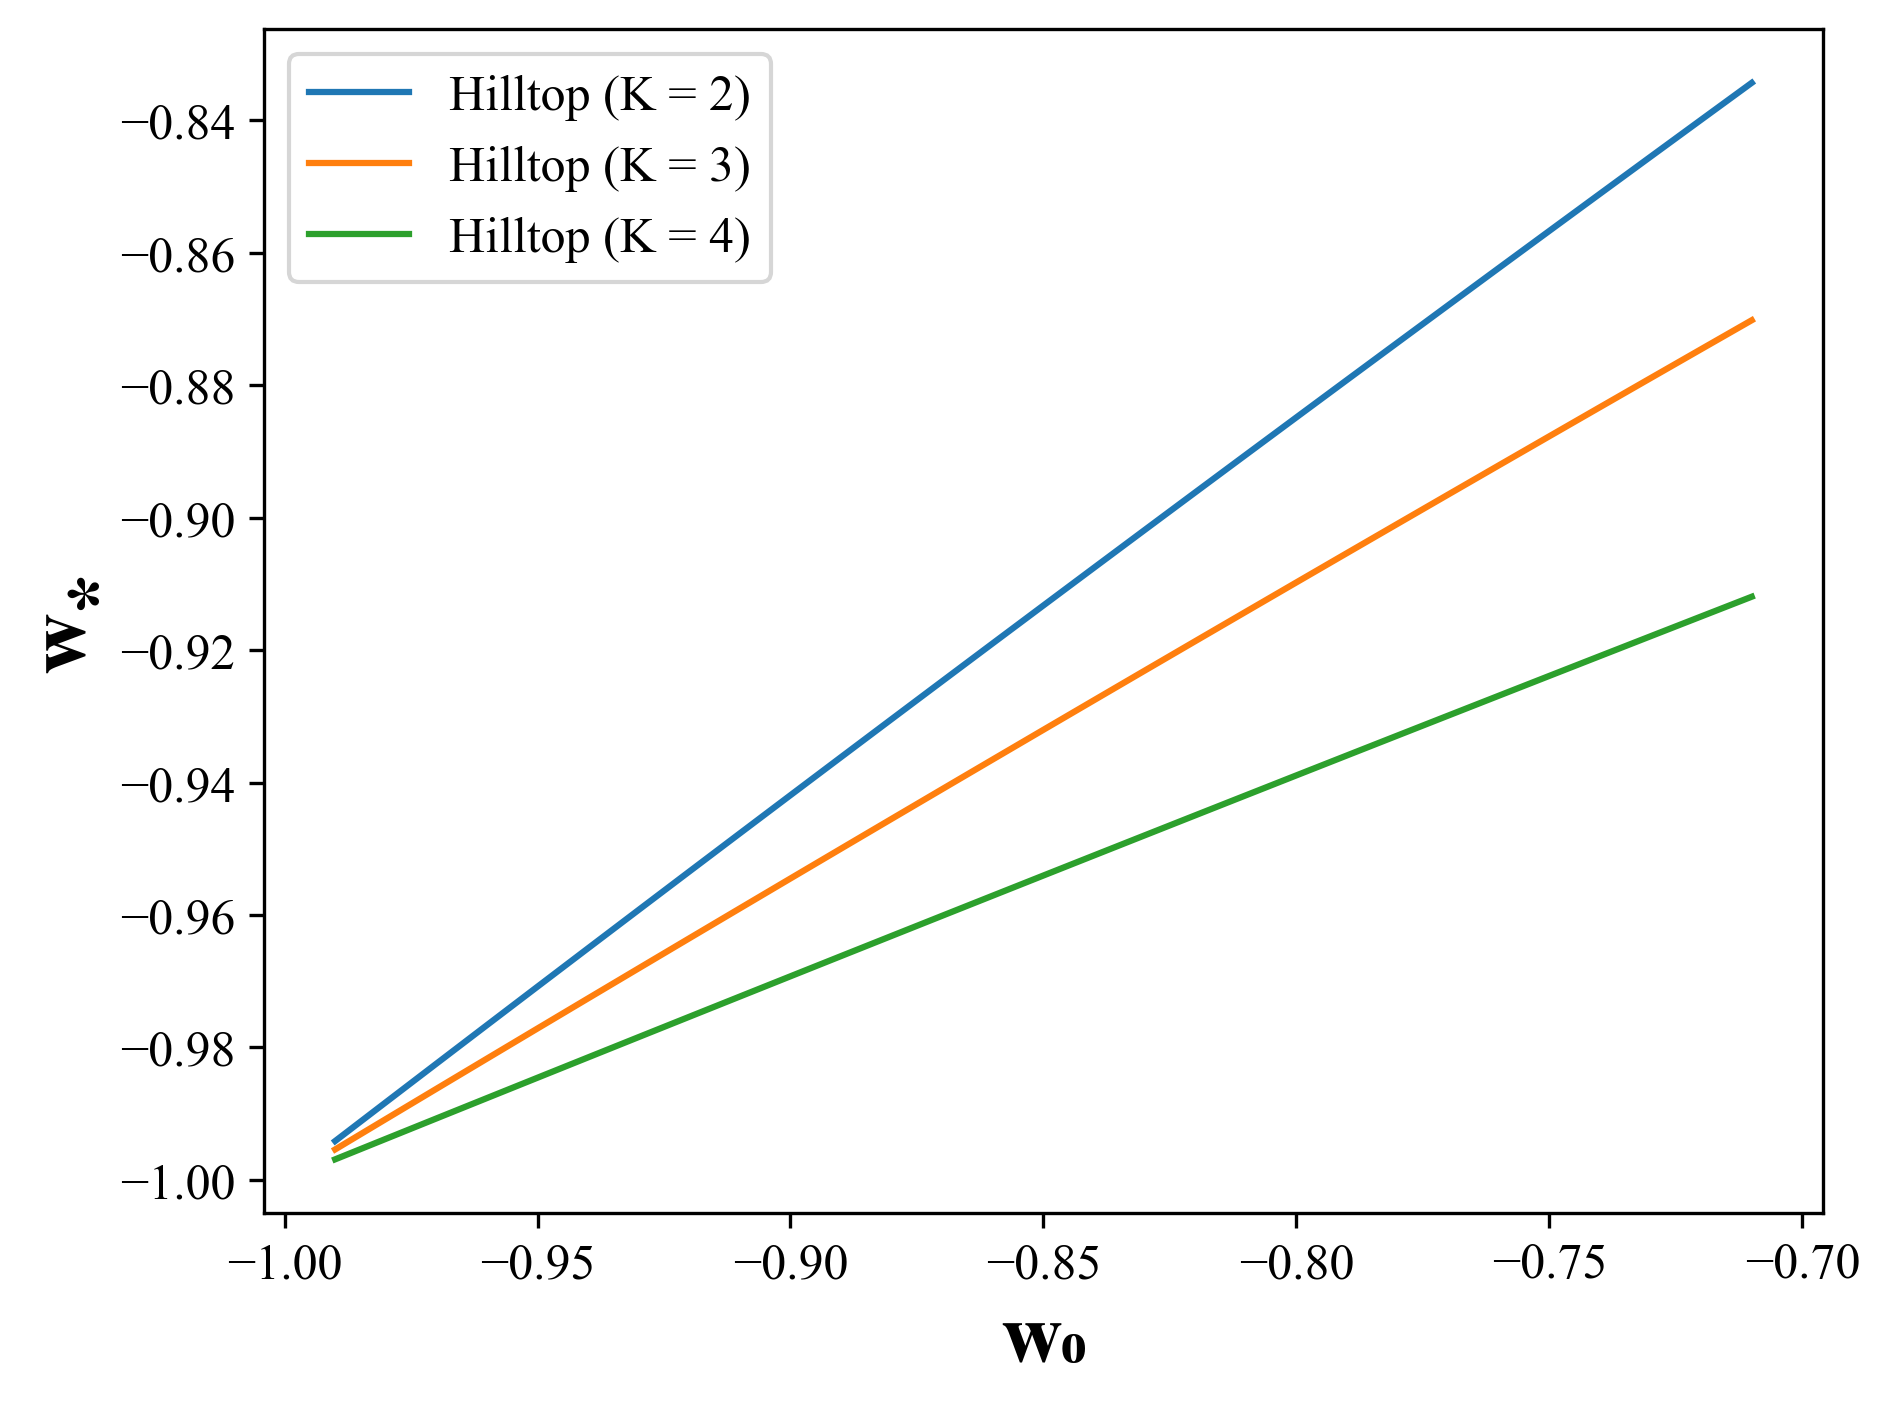
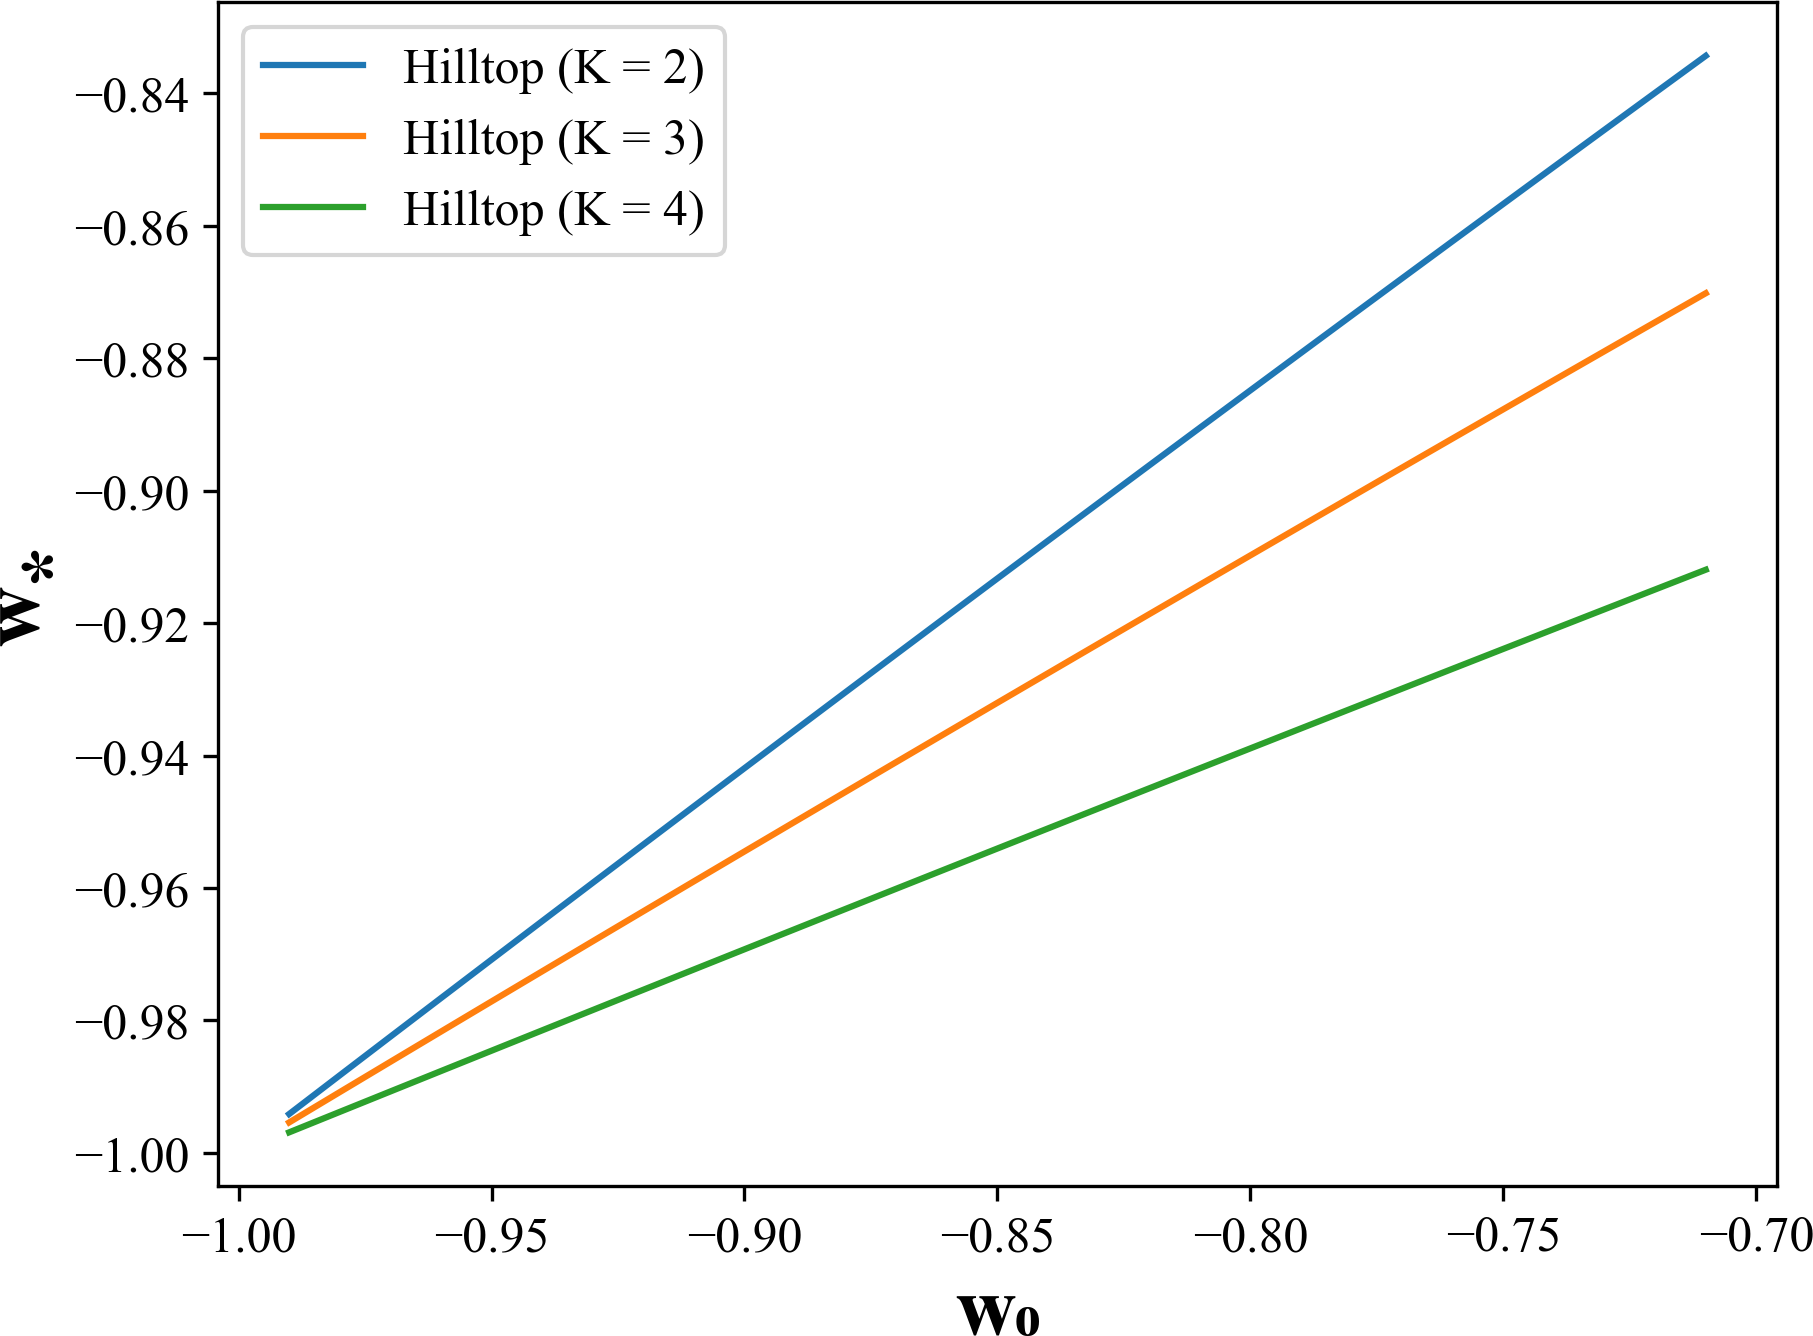
cropped borders out of figures

diff --git a/util/crop.py b/util/crop.py
@@ -1,10 +1,10 @@
 from PIL import Image
 import numpy as np
 
-image_file_name = "images\\fig1-hilltop-models-best-w" # no png
-image_file_name = "images\\fig2-hilltop-models-z-pivot" # no png
-image_file_name = "images\\fig3-linder-best-w" # no png
-image_file_name = "images\\fig4-linder-z-pivot" # no png
+image_file_name = "figures_and_data\\hilltop_models_best_fit" # no .png
+image_file_name = "figures_and_data\\hilltop_models_z_pivot" 
+image_file_name = "figures_and_data\\linder_best_w"
+image_file_name = "figures_and_data\\linder_z_pivot" 
 
 
 # Open the image file
@@ -31,4 +31,4 @@ with Image.open(image_file_name+".png") as img:
     # Save the cropped image
     cropped_img.save(image_file_name+"-cropped.png", format="PNG")
 
-print("Image cropped and saved as angle-figure-cropped.png")
+print("Image cropped as "+image_file_name+"-cropped.png")
